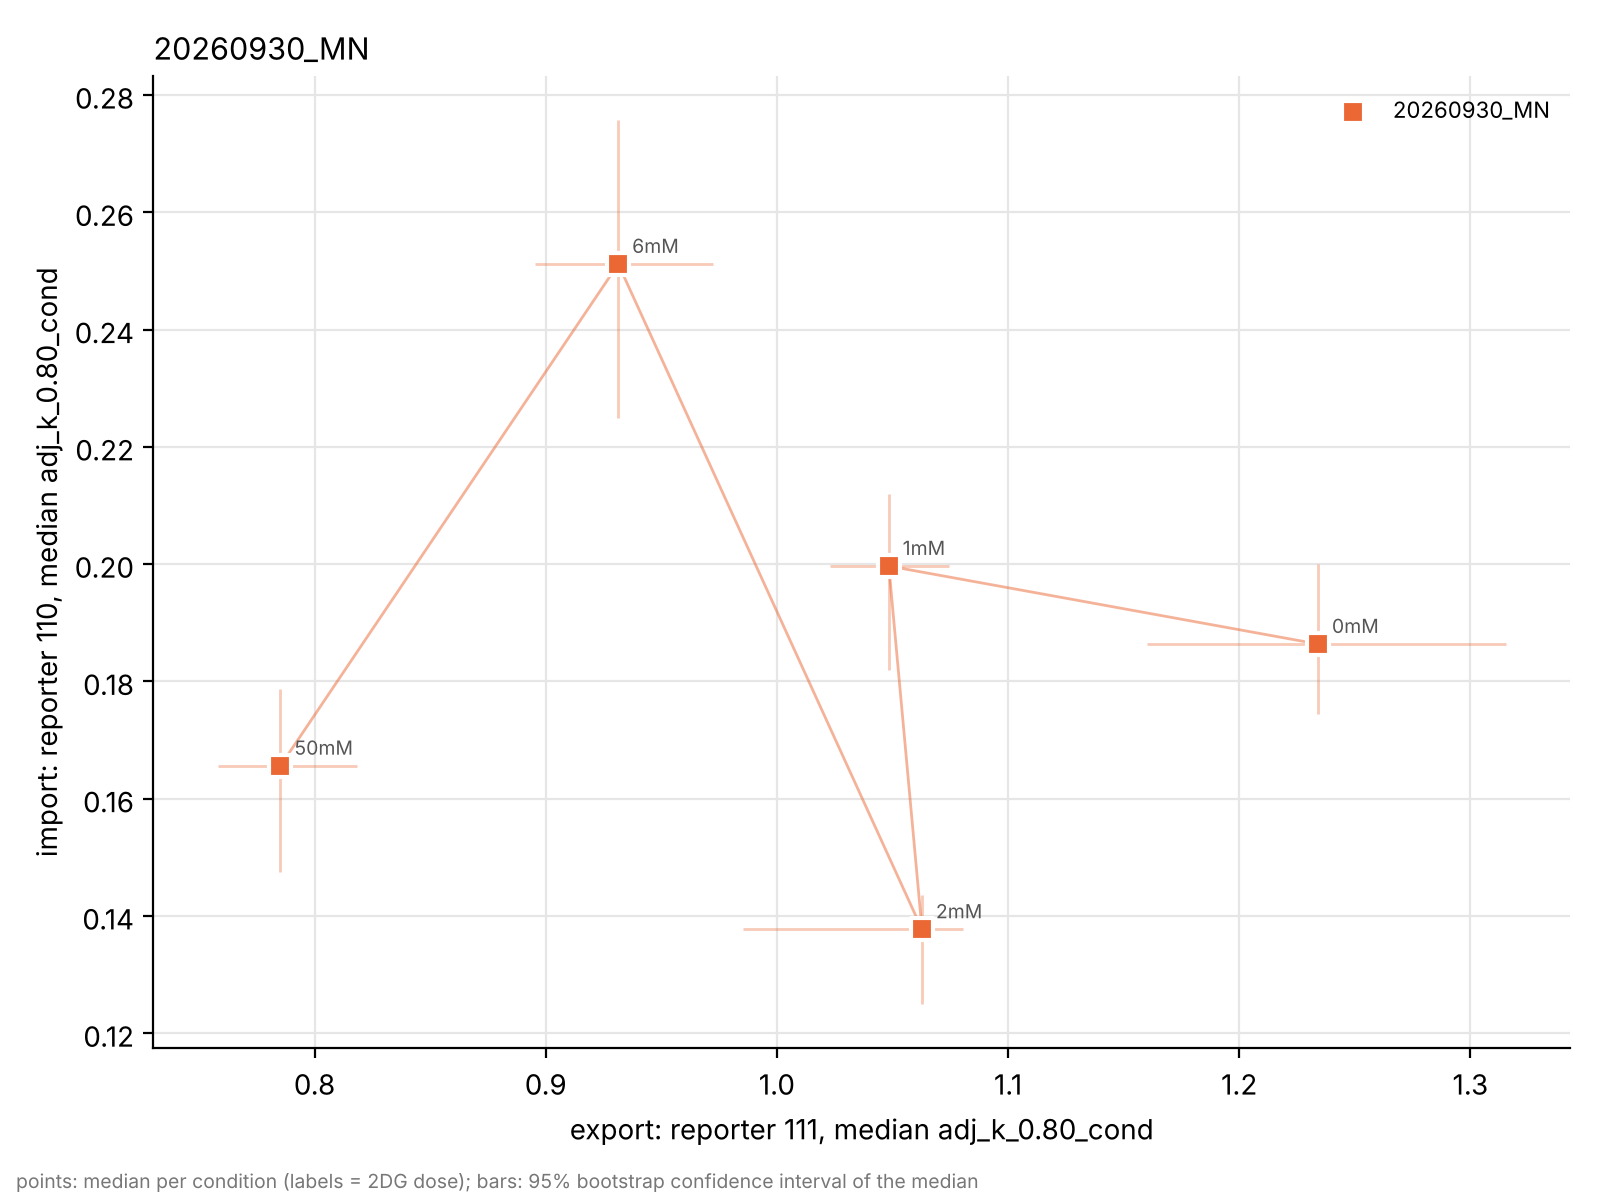
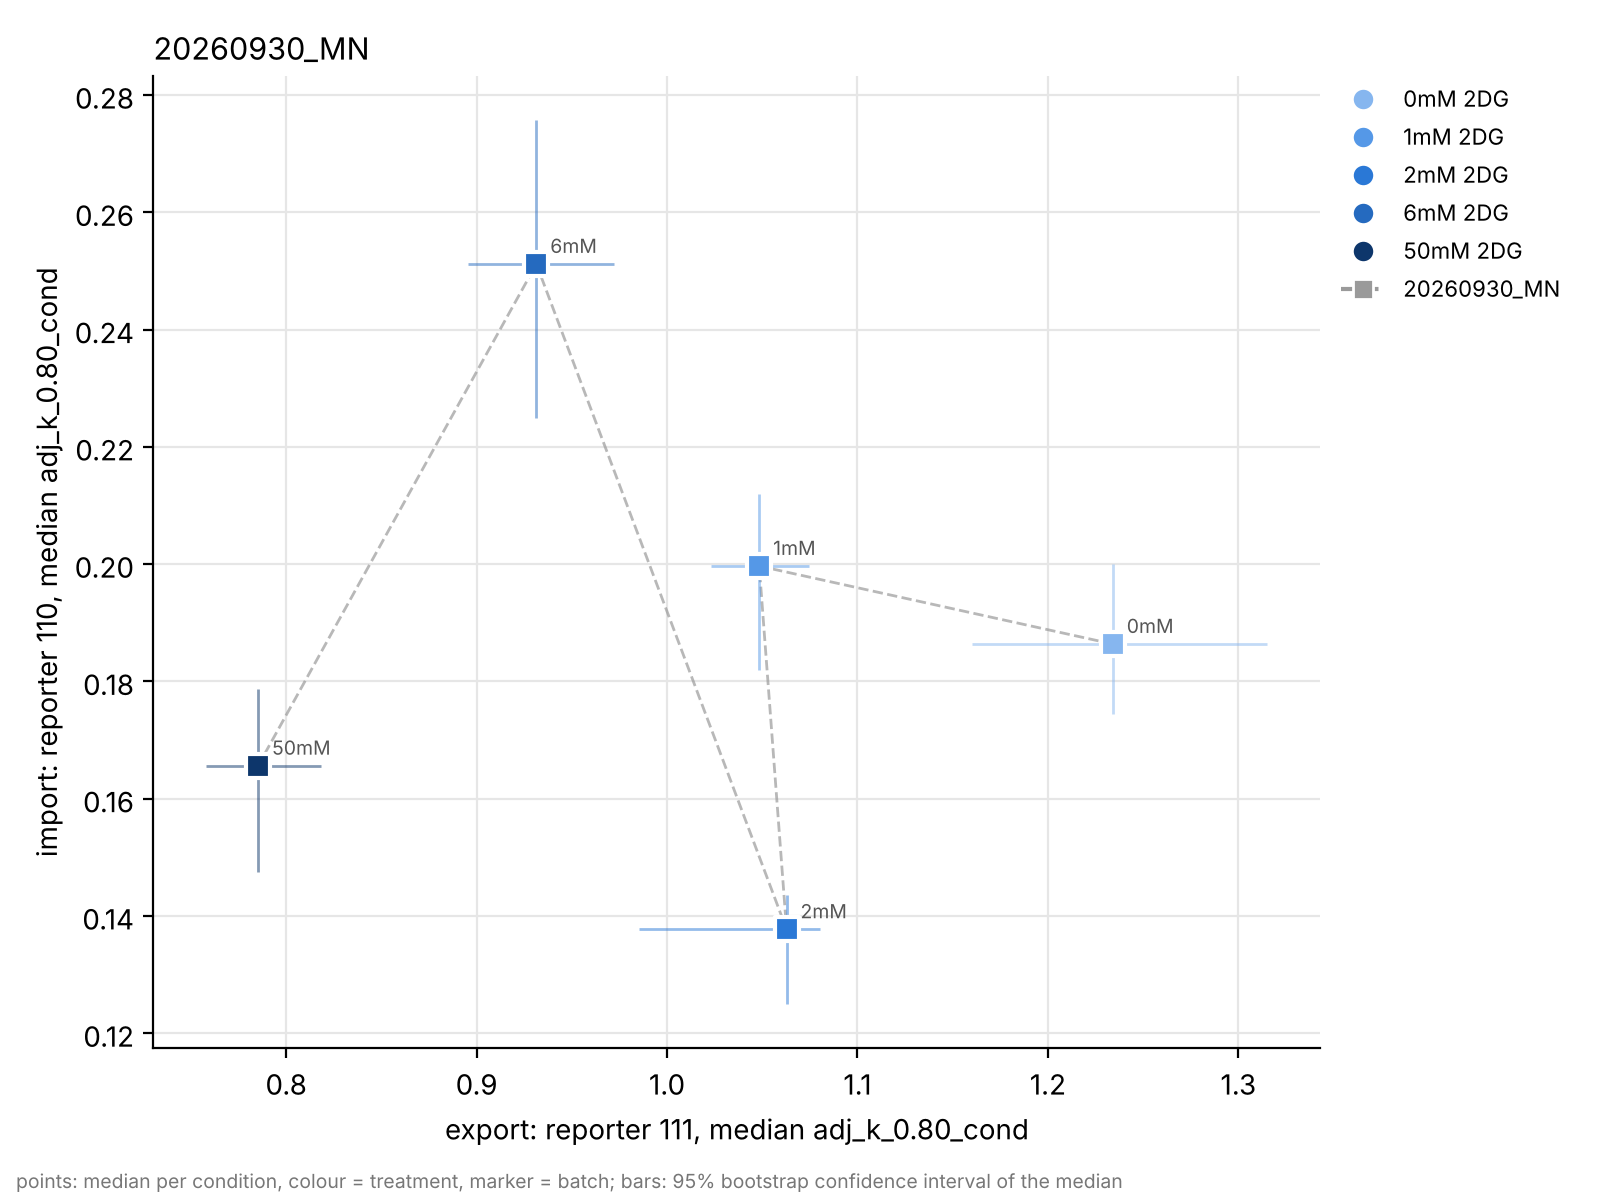
Colour import vs export graphs by treatment
Points and error bars use a light-to-dark blue ramp by 2DG dose; batch
is shown by marker shape and connecting-line style.

Claude-Session: https://claude.ai/code/session_01CutySqUssnsqXooUNoFQjk

diff --git a/plot_ratio_vs_k.py b/plot_ratio_vs_k.py
@@ -37,7 +37,8 @@ y-axis metrics (x-axis is always the normalised ATP/ADP ratio)
 Import vs export (kinetics / NCT folders only, no imaging)
 ----------------
 x = export reporter 111, y = import reporter 110, one point per condition,
-for k and for (1-b)*k. Uses every condition measured by both reporters.
+for k and for (1-b)*k. Colour = treatment (light -> dark blue with dose),
+marker and line style = batch. Uses every condition measured by both reporters.
 
 Error bars
 ----------
@@ -69,6 +70,7 @@ import re
 from pathlib import Path
 
 import matplotlib.pyplot as plt
+from matplotlib.lines import Line2D
 import numpy as np
 import pandas as pd
 
@@ -92,6 +94,10 @@ SERIES_COLORS = ["#2a78d6", "#eb6834", "#1baf7a", "#eda100",
 RSQ_THRESHOLD = 0.8
 RATE_COL = f"(1-b)*k_Rsq>{RSQ_THRESHOLD}"
 BATCH_MARKERS = ["o", "s", "^", "D", "v", "P"]
+BATCH_LINESTYLES = ["-", "--", ":", "-."]
+# Sequential blue ramp (steps 250-700) for treatment dose, light -> dark.
+DOSE_RAMP = ["#86b6ef", "#6da7ec", "#5598e7", "#3987e5", "#2a78d6", "#256abf",
+             "#1c5cab", "#184f95", "#104281", "#0d366b"]
 IMPORT_REPORTER = "110"
 EXPORT_REPORTER = "111"
 N_BOOT = 5000
@@ -394,31 +400,59 @@ def import_export_table(kin_summary, y_cols):
     return wide.sort_values(["batch", "cell_type", "_dose"]).drop(columns="_dose")
 
 
+def treatment_colors(treatments):
+    """Sequential blue ramp (light -> dark) by dose, so colour follows the
+    treatment and stays the same in every import vs export graph."""
+    ordered = sorted(set(treatments), key=dose_key)
+    n = len(ordered)
+    idx = [round(i * (len(DOSE_RAMP) - 1) / max(n - 1, 1)) for i in range(n)]
+    return {t: DOSE_RAMP[j] for t, j in zip(ordered, idx)}
+
+
 def plot_import_export(wide, y_prefix, metric_label, title, out_png, styles, err):
-    """x = export reporter (111), y = import reporter (110); one point per condition."""
+    """x = export reporter (111), y = import reporter (110); one point per condition.
+
+    Colour = treatment, marker / line style = batch.
+    """
+    colors, batch_styles = styles
     fig, ax = new_axes()
     lo, hi, err_text = ERROR_BARS[err]
+    xc, yc = f"{y_prefix}_median_export", f"{y_prefix}_median_import"
     for batch, sub in wide.groupby("batch", sort=False):
-        xc, yc = f"{y_prefix}_median_export", f"{y_prefix}_median_import"
         sub = sub.dropna(subset=[xc, yc])
-        color, marker = styles[batch]
-        x, y = sub[xc], sub[yc]
-        xerr = [x - sub[f"{y_prefix}_{lo}_export"], sub[f"{y_prefix}_{hi}_export"] - x]
-        yerr = [y - sub[f"{y_prefix}_{lo}_import"], sub[f"{y_prefix}_{hi}_import"] - y]
-        ax.errorbar(x, y, xerr=xerr, yerr=yerr,
-                    fmt="none", ecolor=color, elinewidth=1, alpha=0.35, capsize=0)
-        ax.plot(x, y, color=color, linewidth=1, alpha=0.5, zorder=2)
-        ax.scatter(x, y, s=64, color=color, marker=marker, edgecolor="white",
-                   linewidth=1.5, zorder=3, label=batch)
-        for xi, yi, t in zip(x, y, sub["treatment"]):
-            ax.annotate(str(t).replace(" 2DG", ""), (xi, yi),
+        sub = sub.sort_values("treatment", key=lambda s: s.map(dose_key))
+        marker, linestyle = batch_styles[batch]
+        ax.plot(sub[xc], sub[yc], color="#9a9a9a", linewidth=1, linestyle=linestyle,
+                alpha=0.7, zorder=2)
+        for _, r in sub.iterrows():
+            color = colors[r["treatment"]]
+            x, y = r[xc], r[yc]
+            ax.errorbar(x, y,
+                        xerr=[[x - r[f"{y_prefix}_{lo}_export"]],
+                              [r[f"{y_prefix}_{hi}_export"] - x]],
+                        yerr=[[y - r[f"{y_prefix}_{lo}_import"]],
+                              [r[f"{y_prefix}_{hi}_import"] - y]],
+                        fmt="none", ecolor=color, elinewidth=1, alpha=0.5, capsize=0)
+            ax.scatter(x, y, s=70, color=color, marker=marker, edgecolor="white",
+                       linewidth=1.5, zorder=3)
+            ax.annotate(str(r["treatment"]).replace(" 2DG", ""), (x, y),
                         xytext=(5, 4), textcoords="offset points",
                         fontsize=7, color="#555555")
+
+    present = sorted(set(wide["treatment"]), key=dose_key)
+    handles = [Line2D([], [], linestyle="", marker="o", markersize=8,
+                      markerfacecolor=colors[t], markeredgecolor="white", label=t)
+               for t in present]
+    handles += [Line2D([], [], color="#9a9a9a", linestyle=ls, marker=m, markersize=7,
+                       markerfacecolor="#9a9a9a", markeredgecolor="white", label=b)
+                for b, (m, ls) in batch_styles.items() if b in set(wide["batch"])]
+    ax.legend(handles=handles, frameon=False, fontsize=8,
+              loc="upper left", bbox_to_anchor=(1.01, 1), borderaxespad=0)
     ax.set_xlabel(f"export: reporter {EXPORT_REPORTER}, median {metric_label}")
     ax.set_ylabel(f"import: reporter {IMPORT_REPORTER}, median {metric_label}")
     ax.set_title(title, fontsize=11, loc="left")
-    ax.legend(frameon=False, fontsize=8)
-    finish(fig, f"points: median per condition (labels = 2DG dose); {err_text}", out_png)
+    finish(fig, "points: median per condition, colour = treatment, "
+           f"marker = batch; {err_text}", out_png)
 
 
 def plot_all_import_export(kin_summary, y_cols, out_dir):
@@ -428,8 +462,10 @@ def plot_all_import_export(kin_summary, y_cols, out_dir):
               f"{EXPORT_REPORTER}; skipping import vs export graphs")
         return
     batches = list(dict.fromkeys(wide["batch"]))
-    styles = {b: (SERIES_COLORS[i % len(SERIES_COLORS)],
-                  BATCH_MARKERS[i % len(BATCH_MARKERS)]) for i, b in enumerate(batches)}
+    batch_styles = {b: (BATCH_MARKERS[i % len(BATCH_MARKERS)],
+                        BATCH_LINESTYLES[i % len(BATCH_LINESTYLES)])
+                    for i, b in enumerate(batches)}
+    styles = (treatment_colors(wide["treatment"]), batch_styles)
     labels = {"k": y_cols["k"], "rate": f"(1-b)*k (R-sq > {RSQ_THRESHOLD})"}
     folder = "import_vs_export"
     sub_dir = out_dir / folder
